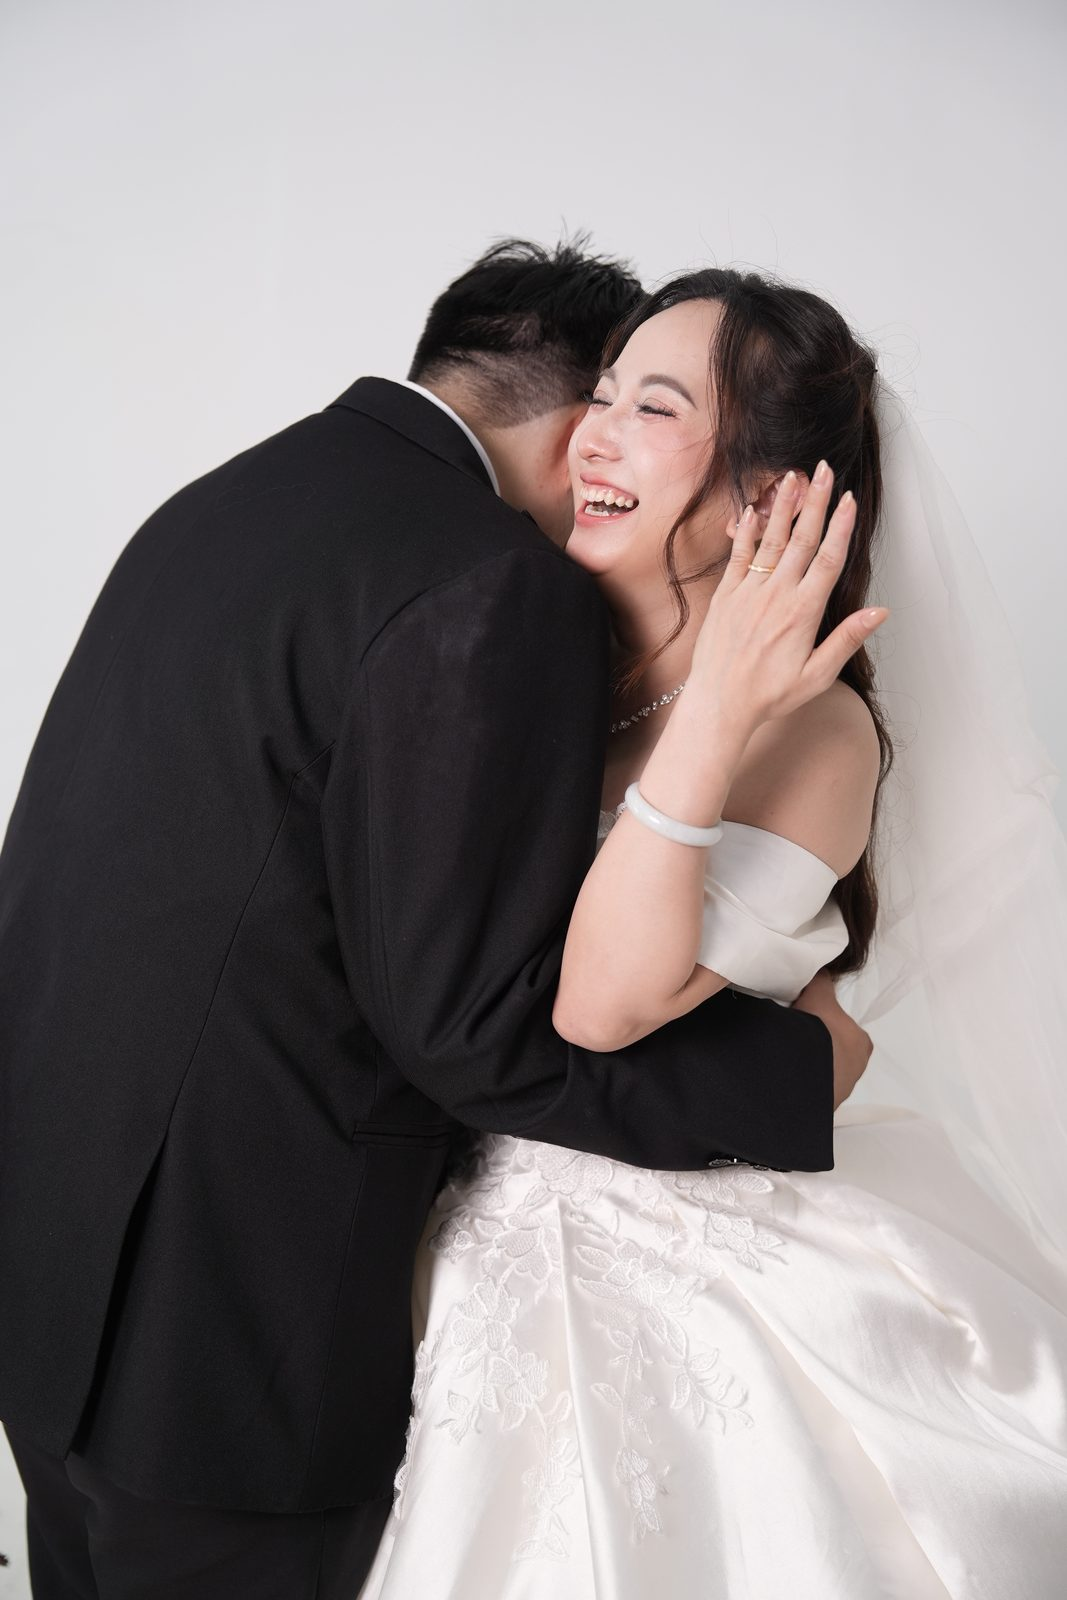
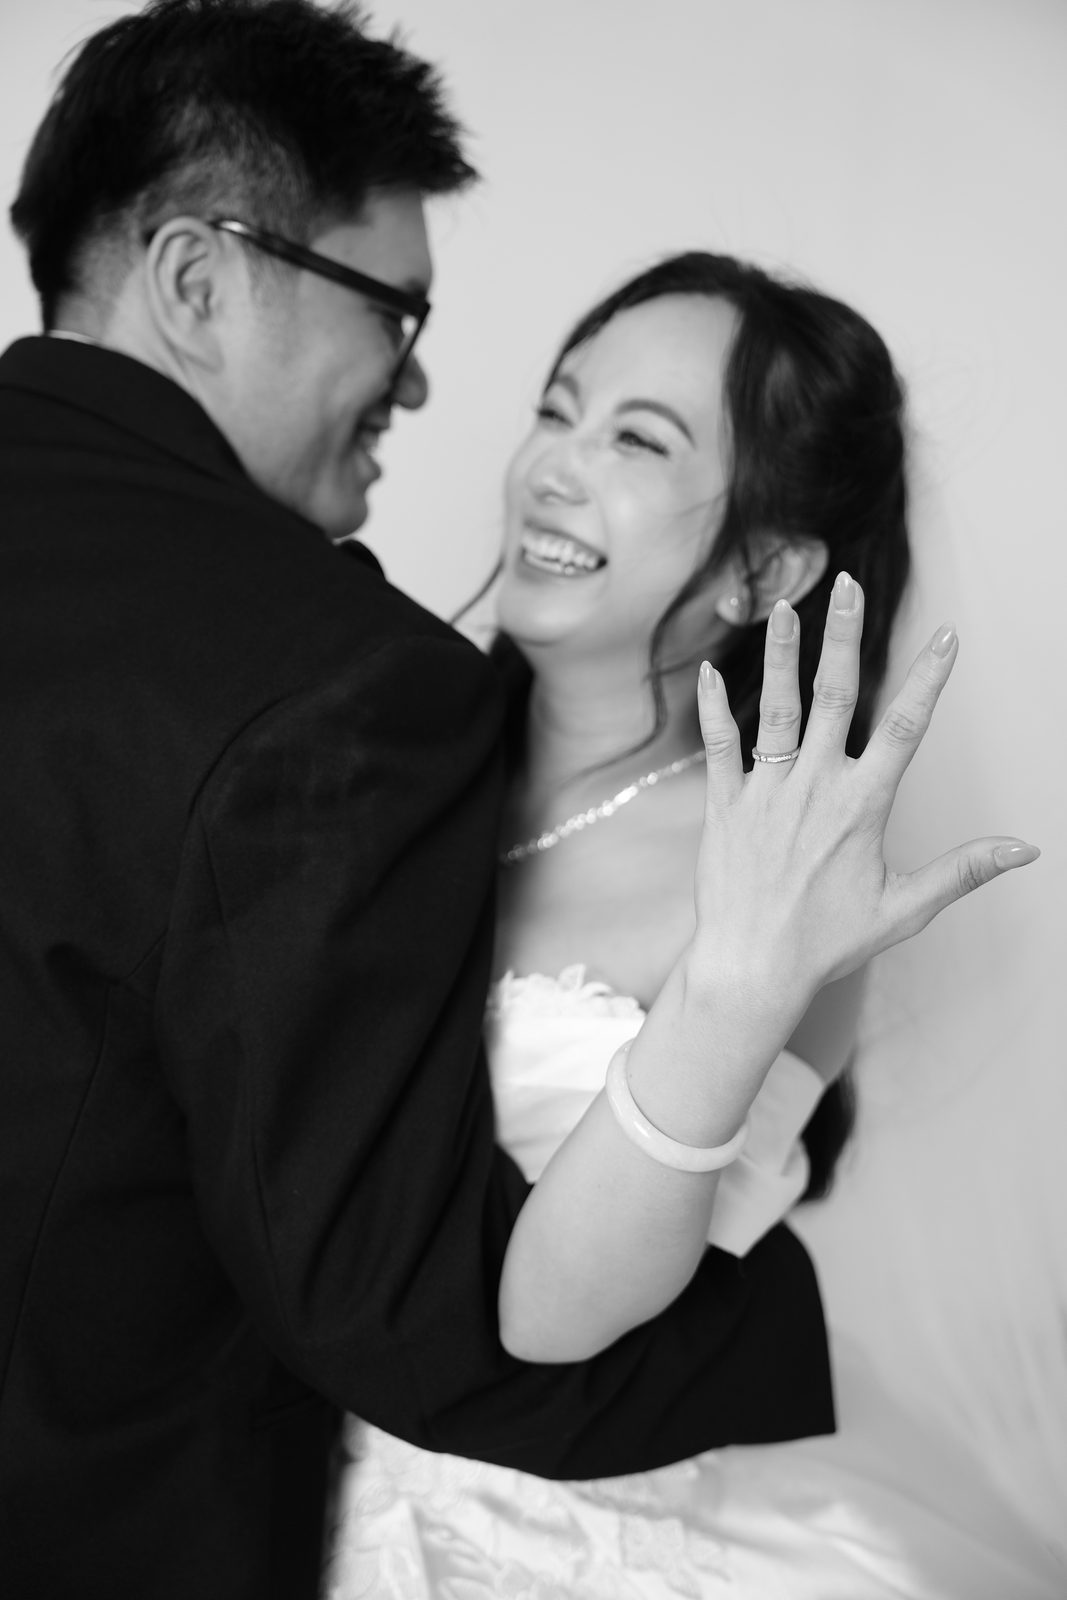
feat(album): thay anh toi bang anh sang da, o lon chuyen sang trai, giam chinh tong anh

diff --git a/assets/js/config.js b/assets/js/config.js
@@ -143,13 +143,15 @@ const CONFIG = {
       { src: "images/album/01.jpg", alt: "Hai đứa dưới cổng hoa", size: "tall" },
       { src: "images/album/02.jpg", alt: "Nụ hôn dưới voan", size: "" },
       { src: "images/album/03.jpg", alt: "Nhấc bổng nhau lên", size: "" },
-      { src: "images/album/04.jpg", alt: "Cái ôm ngày chung vui", size: "" },
+      { src: "images/album/04.jpg", alt: "Nụ cười sau tấm voan", size: "" },
       { src: "images/album/05.jpg", alt: "Hai đứa bên chữ Hỷ", size: "tall" },
-      { src: "images/album/06.jpg", alt: "Nụ hôn khoe nhẫn", size: "" },
-      { src: "images/album/07.jpg", alt: "Chiếc nhẫn trên tay", size: "" },
-      { src: "images/album/08.jpg", alt: "Lời thề For Love", size: "tall" },
-      { src: "images/album/09.jpg", alt: "Cổ phục nhìn nhau", size: "" },
-      { src: "images/album/10.jpg", alt: "Đôi nhẫn cưới", size: "wide" }
+      { src: "images/album/06.jpg", alt: "Chiếc nhẫn trên tay", size: "" },
+      { src: "images/album/07.jpg", alt: "Tay trong tay", size: "tall" },
+      { src: "images/album/08.jpg", alt: "Cổ phục ngày chung đôi", size: "" },
+      { src: "images/album/09.jpg", alt: "Hộp nhẫn cưới", size: "" },
+      { src: "images/album/10.jpg", alt: "Khoe nhẫn", size: "" },
+      { src: "images/album/11.jpg", alt: "Giữa vườn hoa trắng", size: "" },
+      { src: "images/album/12.jpg", alt: "Đôi nhẫn cưới", size: "wide" }
     ]
   },
 
@@ -233,11 +235,11 @@ const CONFIG = {
     countdown: "images/album/03.jpg",
     footer:    "images/album/01.jpg",
     bands: [
-      { after: "invitation", src: "images/album/02.jpg",
+      { after: "invitation", src: "images/band/b1.jpg",
         quote: "Và rồi, chúng tôi chọn nhau", sub: "cho hôm nay và mọi ngày về sau" },
-      { after: "events",     src: "images/album/09.jpg",
+      { after: "events",     src: "images/band/b2.jpg",
         quote: "Trăm năm tình viên mãn", sub: "Bạc đầu nghĩa phu thê" },
-      { after: "gift",       src: "images/album/06.jpg",
+      { after: "gift",       src: "images/band/b3.jpg",
         quote: "Cảm ơn vì đã là một phần", sub: "trong ngày đẹp nhất của chúng tôi" }
     ]
   },

diff --git a/assets/css/tokens.css b/assets/css/tokens.css
@@ -26,7 +26,7 @@
   /* ---- Chỉnh màu ảnh cho ăn tông be (áp cho MỌI ảnh trên thiệp) ----
      sepia = độ ấm · saturate < 1 = dịu bớt màu gắt (đỏ chữ Hỷ, xanh cỏ).
      Muốn ảnh giữ nguyên màu gốc: đổi thành  --photo-grade: none; */
-  --photo-grade: sepia(.16) saturate(.86) contrast(.96) brightness(1.03);
+  --photo-grade: sepia(.06) saturate(.94) brightness(1.07);   /* nhẹ tay: không làm sạm da */
 
   /* ---- Lớp phủ nâu mocha trên ảnh nền (đếm ngược, lời kết, màn chào) ---- */
   --scene-veil: linear-gradient(180deg, rgba(58,44,34,.62), rgba(58,44,34,.80));
